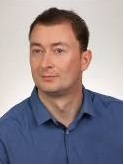
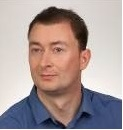
poprawka zjęcia, dodanie efektu hover

diff --git a/css/styles.css b/css/styles.css
@@ -11435,14 +11435,16 @@ html {
 
 }
 .circular {
-	width: 200px;
-	height: 200px;
-	border-radius: 150px;
-	-webkit-border-radius: 150px;
-	-moz-border-radius: 150px;
-  max-width: 90%;
-    height: auto;
+	width: 150px;
+	border-radius: 150px;    
+    border-radius: 50%;
+    border:3px solid blanchedalmond;
+    filter: grayscale(100%);
+    
 	}
+  .circular:hover{
+    filter: grayscale(0%);
+  }
 
 @media (min-width: 992px) {
   .masthead {
